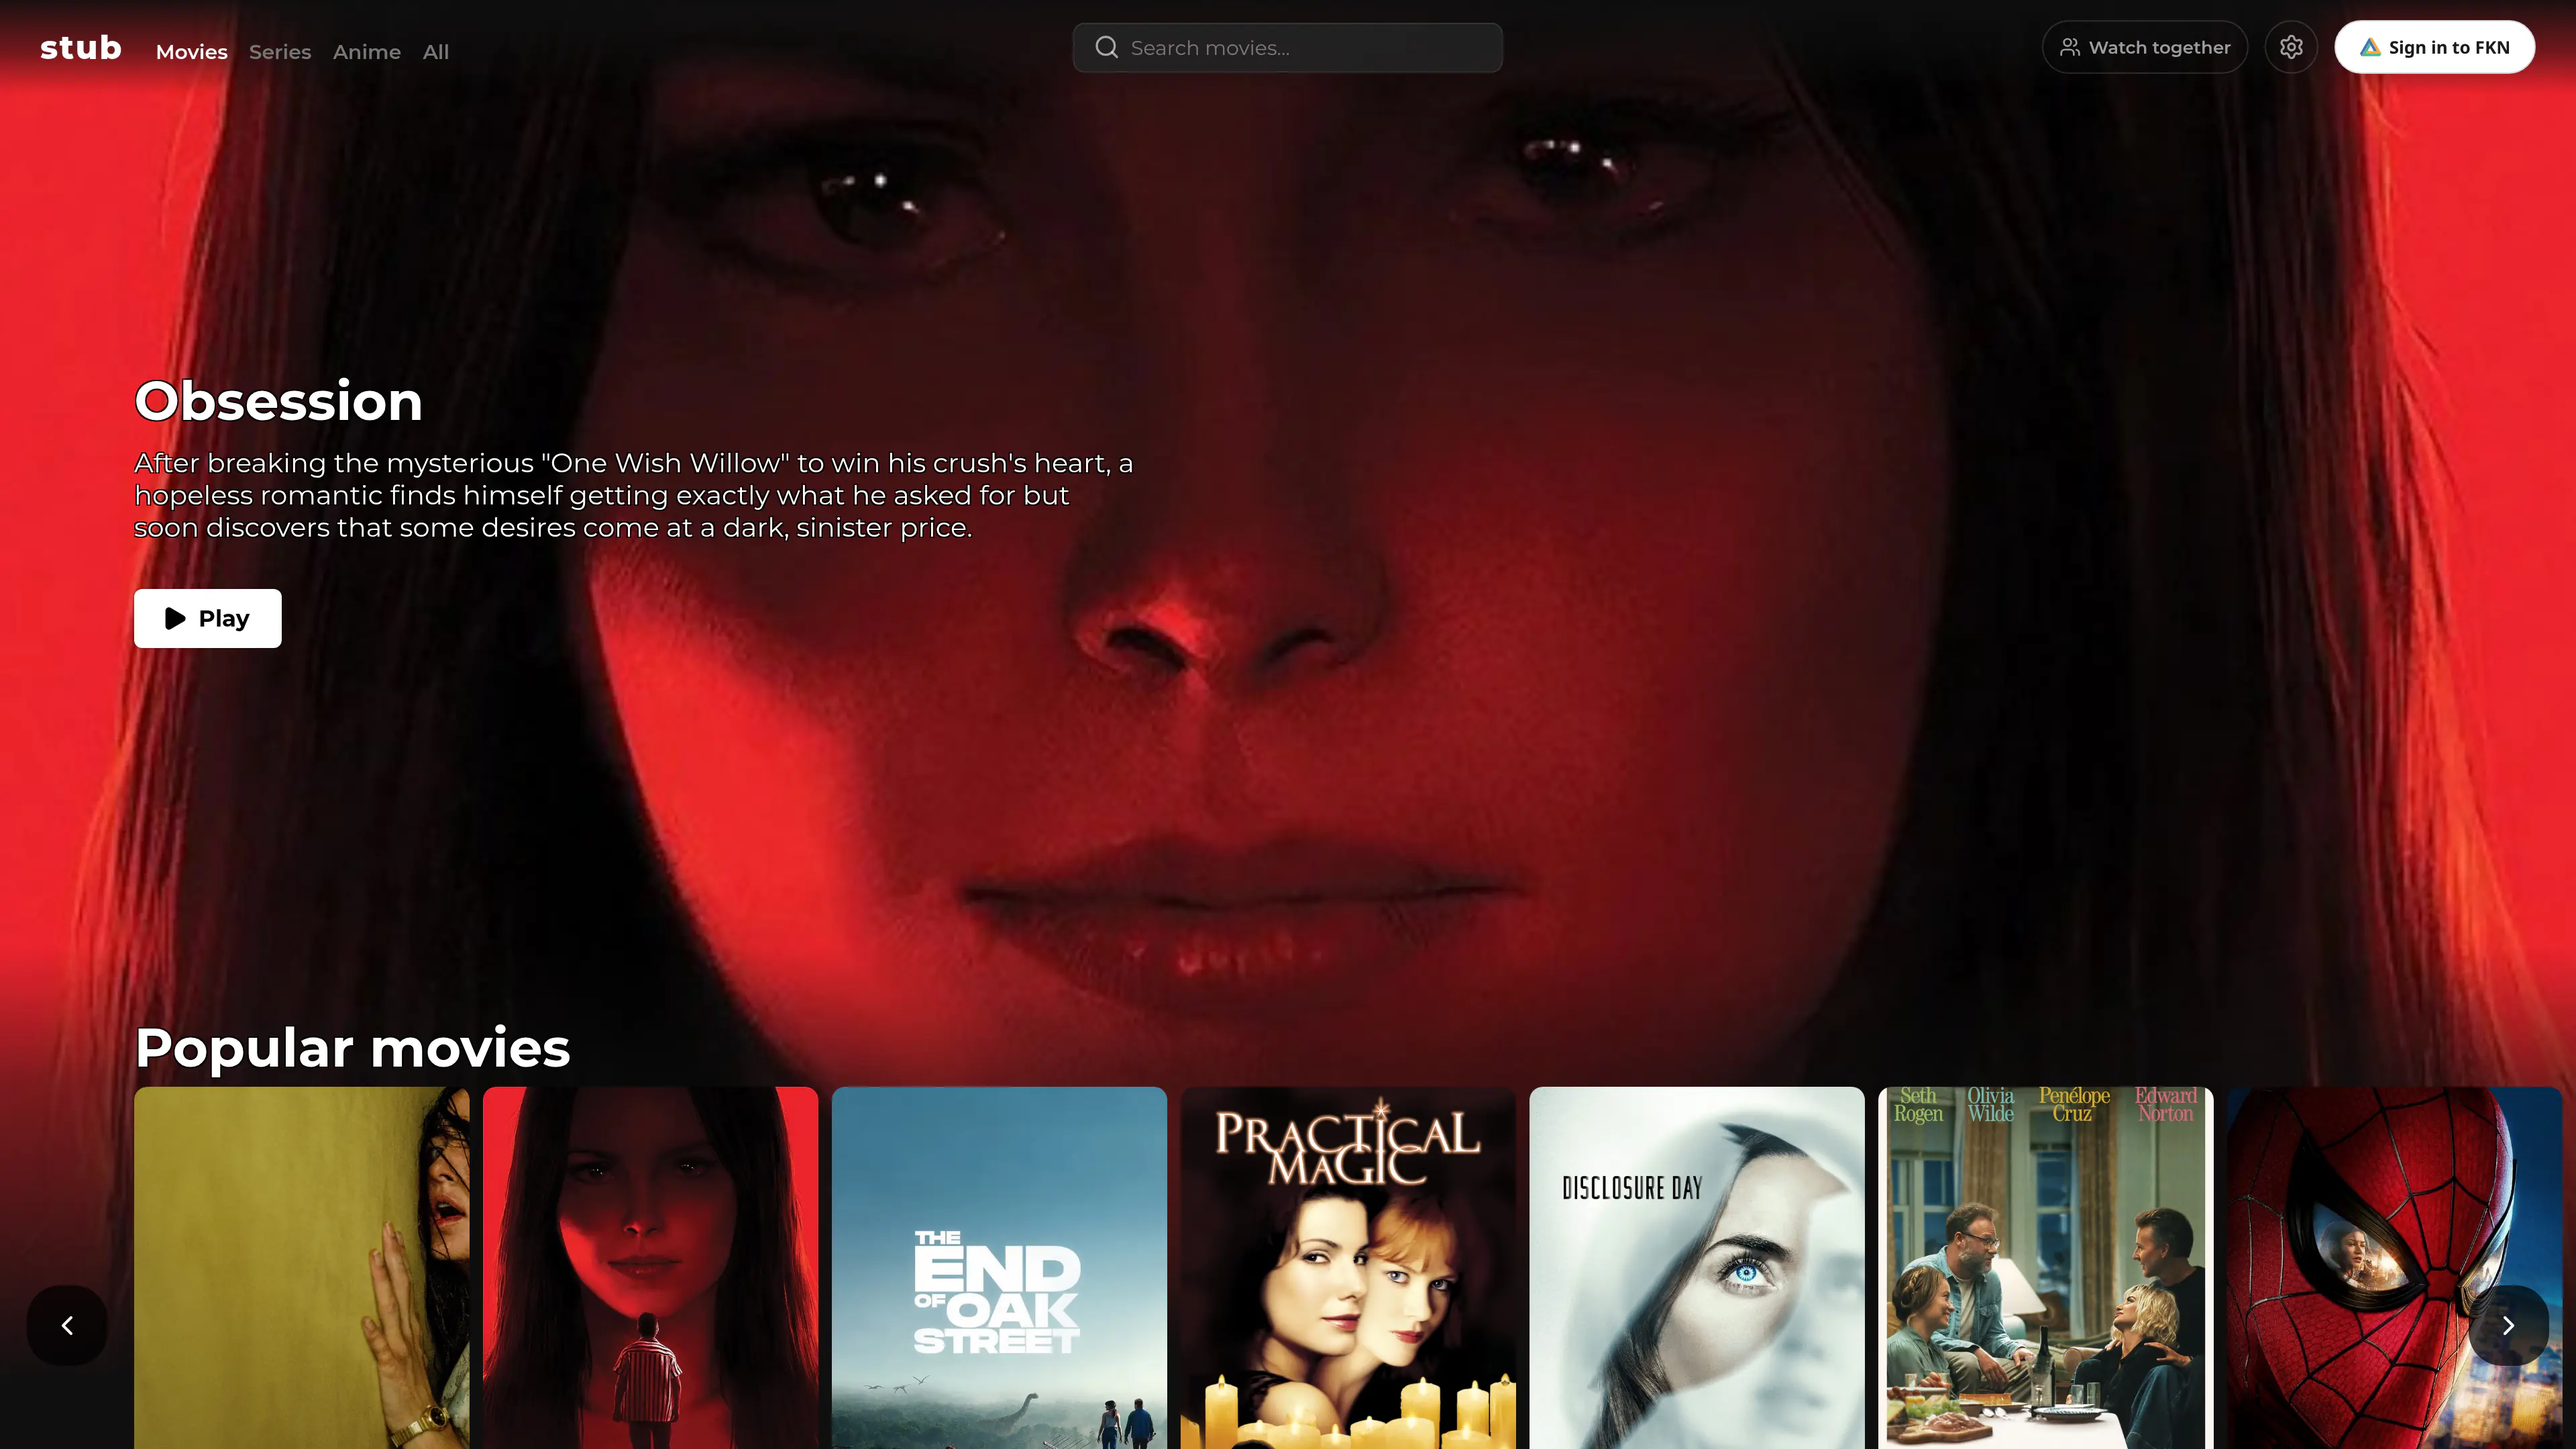
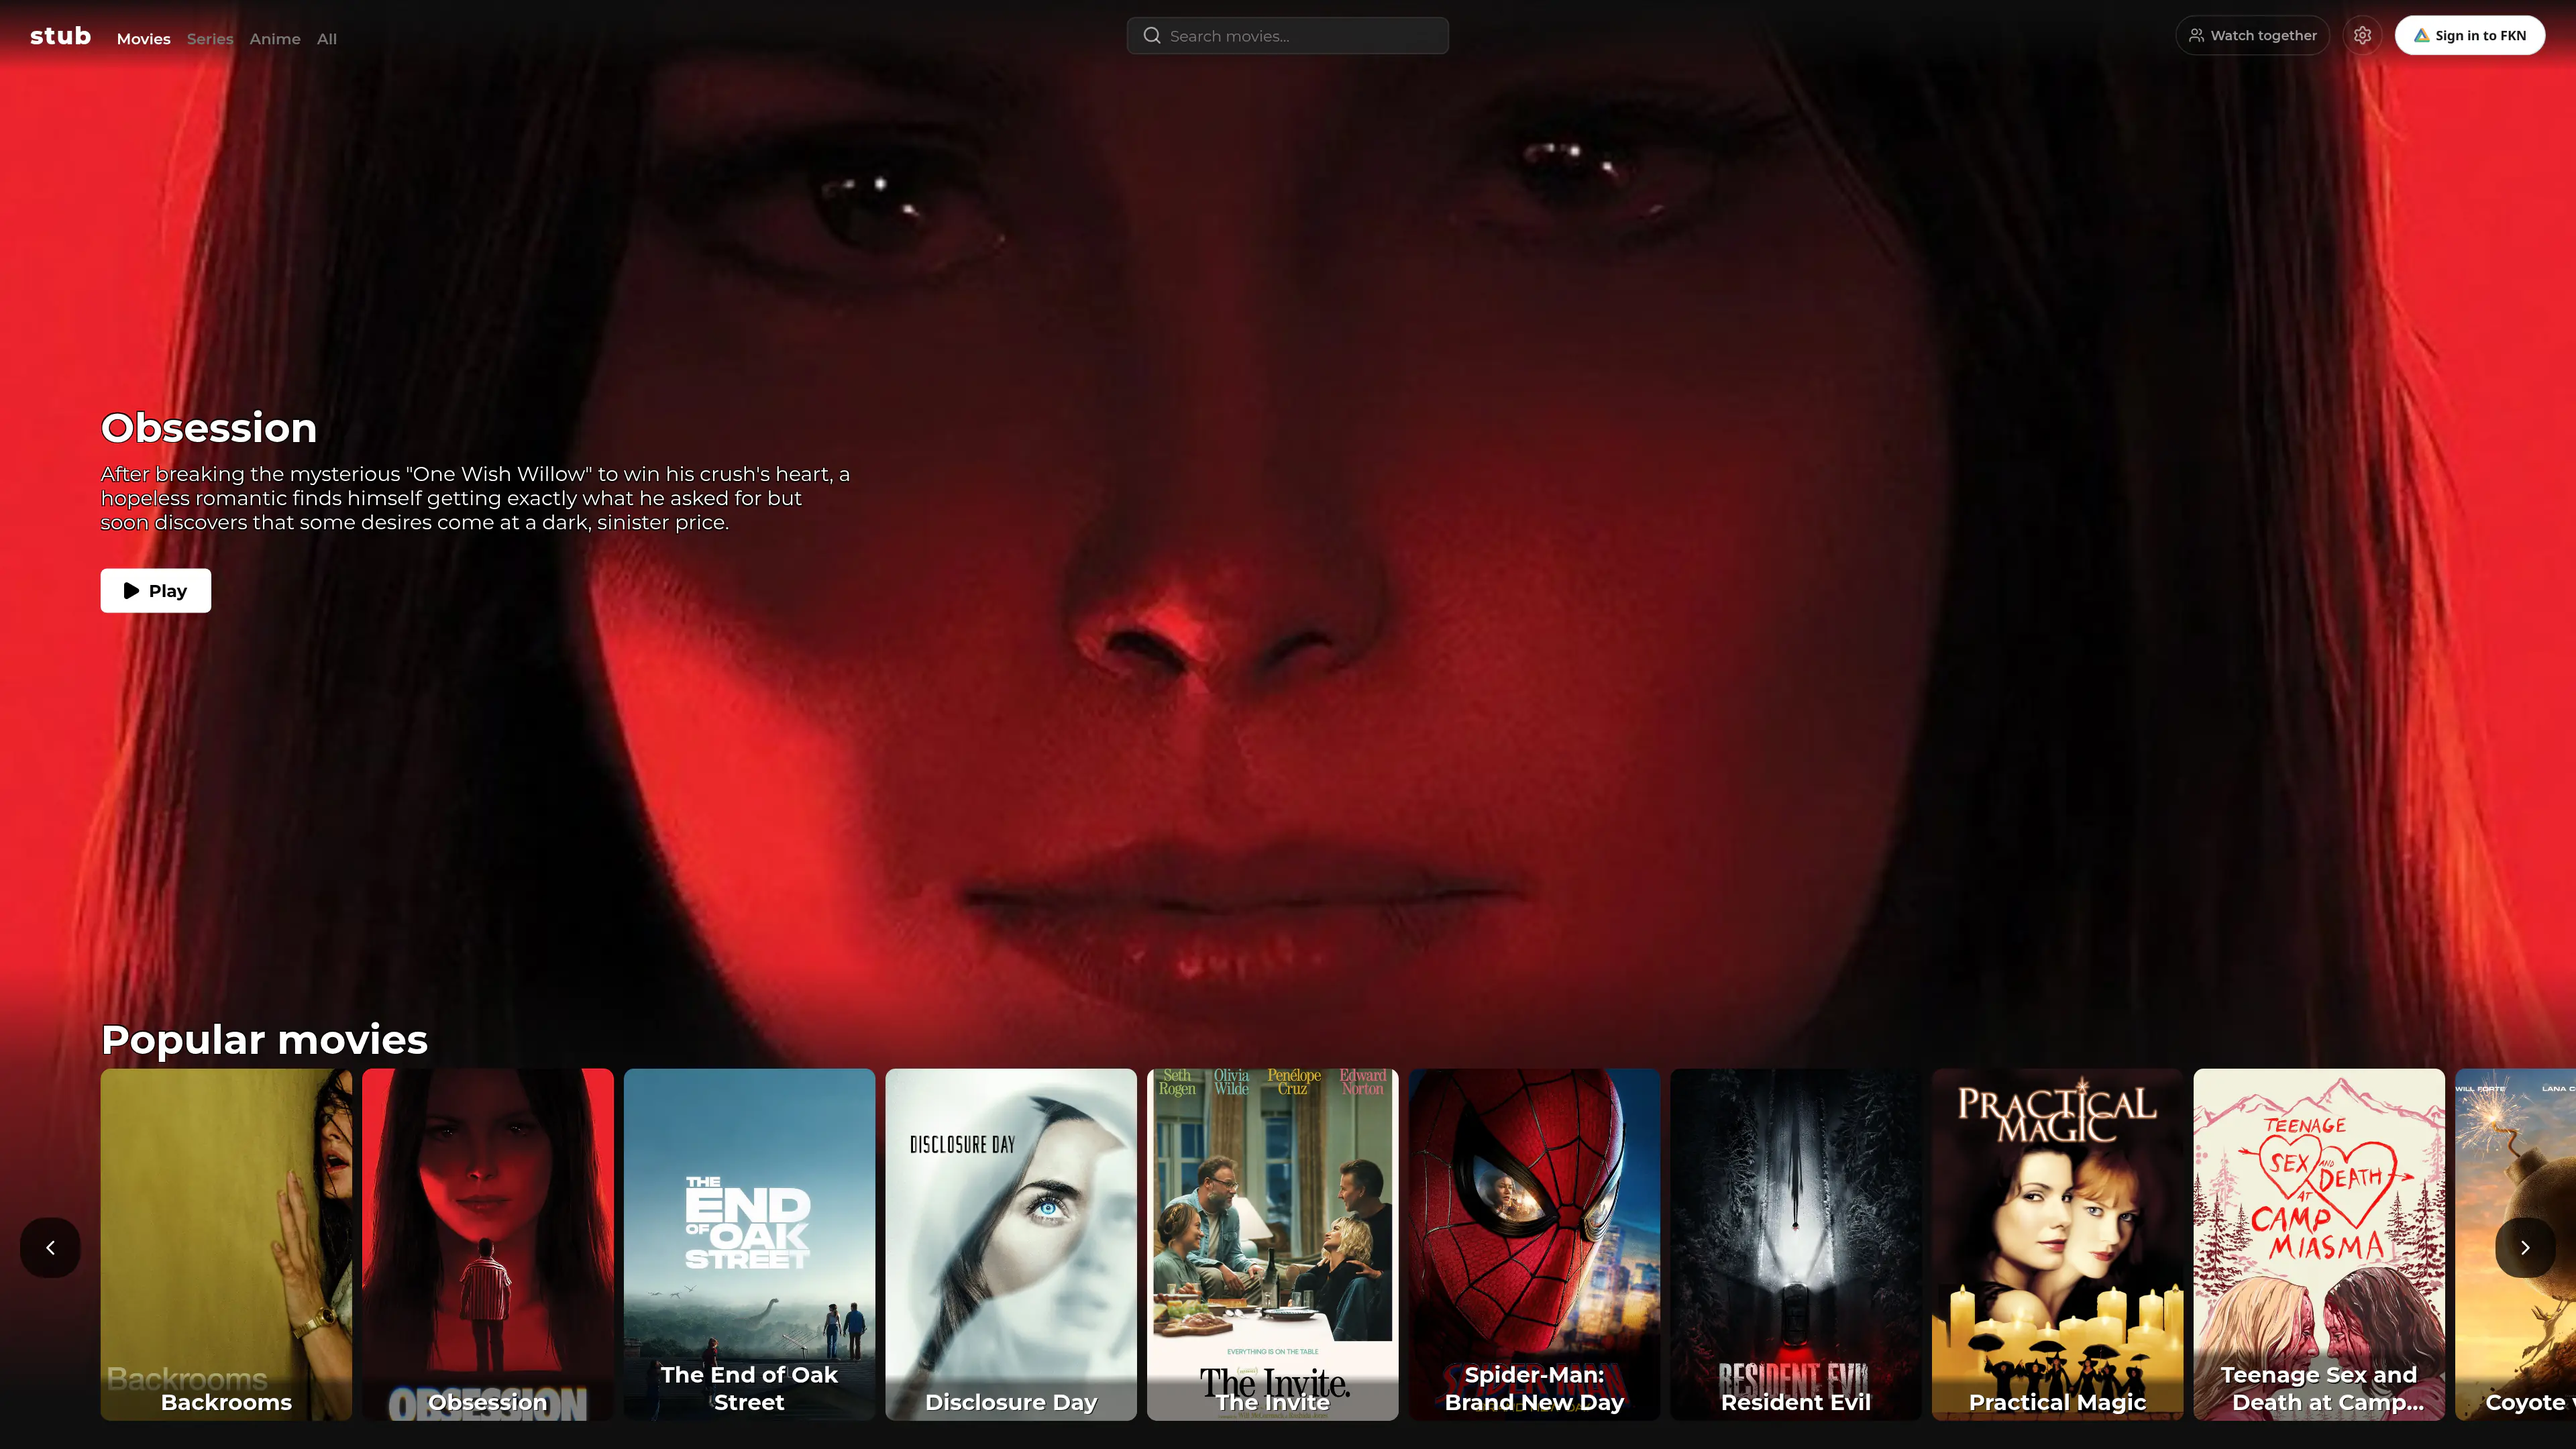
fix: 🐛store shots are taken at 2560x1440 at 1.5, so card titles show

diff --git a/scripts/capture-store.ts b/scripts/capture-store.ts
@@ -1,0 +1,110 @@
+/**
+ * Retakes the store screenshots package.json's `fkn.screenshots` names, from the live sites.
+ *
+ *   CHROME_PATH=$(which google-chrome-stable) node scripts/capture-store.ts <dir> [shot...]
+ *   cwebp -q 75 -m 6 -sharp_yuv -noalpha <dir>/<shot>-<frame>.png -o store/<shot>.webp
+ *
+ * Each shot opens a fresh signed-out context and waits until every picture on screen has decoded and
+ * the set has held for 5 s. A home's hero plays a trailer, so a home takes a burst to pick a frame
+ * from: one with no YouTube controls or text cards over the trailer and no letterbox bands.
+ */
+import type { BrowserContextOptions, Page } from 'playwright'
+
+import { mkdirSync } from 'node:fs'
+import { join } from 'node:path'
+import { chromium } from 'playwright'
+
+/** The owner's monitor: a 2560x1440 page at 1.5 (3840x2160 pixels), where the first row's card titles show. */
+export const DESKTOP = { viewport: { width: 2560, height: 1440 }, deviceScaleFactor: 1.5 }
+export const PHONE = { viewport: { width: 390, height: 844 }, deviceScaleFactor: 3, isMobile: true, hasTouch: true }
+
+const BURST = 8
+const JUJUTSU_KAISEN = 'https://anime.fkn.app/title/anilist:113415'
+const SHOTS: Record<string, { url: string, device: BrowserContextOptions, pictures: number, home?: true }> = {
+  home: { url: 'https://anime.fkn.app/', device: DESKTOP, pictures: 6, home: true },
+  title: { url: JUJUTSU_KAISEN, device: DESKTOP, pictures: 6 },
+  movie: { url: 'https://movies.fkn.app/', device: DESKTOP, pictures: 6, home: true },
+  series: { url: 'https://series.fkn.app/', device: DESKTOP, pictures: 6, home: true },
+  search: { url: 'https://anime.fkn.app/search?q=gundam', device: DESKTOP, pictures: 12 },
+  phone: { url: JUJUTSU_KAISEN, device: PHONE, pictures: 1 },
+}
+
+/** Runs in the page: the first card row's cards across the viewport, and how many of their titles lie wholly inside it. */
+export const firstRowTitles = () => {
+  const cards = [...document.querySelectorAll('.category-item')].map(card => ({
+    card: card.getBoundingClientRect(),
+    title: card.querySelector('.title-text')?.getBoundingClientRect(),
+  }))
+  const top = Math.min(...cards.map(({ card }) => card.top))
+  const row = cards.filter(({ card }) => Math.abs(card.top - top) < 1 && card.right > 0 && card.left < innerWidth)
+  return { across: row.length, inView: row.filter(({ title }) => title && title.top >= 0 && title.bottom <= innerHeight).length }
+}
+
+const picturesOnScreen = () => {
+  const urls = new Set<string>()
+  for (const element of document.querySelectorAll('*')) {
+    const { width, height, top, bottom, left, right } = element.getBoundingClientRect()
+    if (width < 8 || height < 8 || bottom <= 0 || top >= innerHeight || right <= 0 || left >= innerWidth) continue
+    if (element instanceof HTMLImageElement) {
+      if (element.currentSrc) urls.add(element.currentSrc)
+      continue
+    }
+    for (const [, url] of getComputedStyle(element).backgroundImage.matchAll(/url\("?([^")]+)"?\)/g)) {
+      if (url && !url.endsWith('/undefined')) urls.add(url)
+    }
+  }
+  return [...urls]
+}
+
+const decoded = (urls: string[]) => Promise.all(urls.map(url => {
+  const image = new Image()
+  image.src = url
+  return Promise.race([image.decode().then(() => true, () => false), new Promise<boolean>(resolve => setTimeout(resolve, 3_000, false))])
+}))
+
+const settle = async (page: Page, pictures: number) => {
+  let last = ''
+  let held = 0
+  for (let tick = 0; tick < 120; tick++) {
+    await page.waitForTimeout(1_000)
+    const urls = await page.evaluate(picturesOnScreen)
+    const ready = urls.length >= pictures
+      && (await page.evaluate(decoded, urls)).every(Boolean)
+      && await page.locator('[aria-busy="true"]').count() === 0
+    const key = urls.toSorted().join('|')
+    held = ready && key === last ? held + 1 : 0
+    if (held >= 5) return
+    last = key
+  }
+  throw new Error(`${page.url()} never settled`)
+}
+
+if (import.meta.main) {
+  const [dir, ...names] = process.argv.slice(2)
+  if (!dir) throw new Error('usage: node scripts/capture-store.ts <dir> [shot...]')
+  mkdirSync(dir, { recursive: true })
+  const browser = await chromium.launch({ executablePath: process.env.CHROME_PATH, args: ['--mute-audio', '--ozone-platform=headless'] })
+  for (const name of names.length ? names : Object.keys(SHOTS)) {
+    const shot = SHOTS[name]
+    if (!shot) throw new Error(`no shot named ${name}: ${Object.keys(SHOTS).join(', ')}`)
+    const context = await browser.newContext(shot.device)
+    const page = await context.newPage()
+    await page.goto(shot.url)
+    await settle(page, shot.pictures)
+    // the platform's notices, "Free quota used" among them, sit in fkn.app's frame over the page
+    for (const frame of page.frames().filter(frame => frame.parentFrame())) {
+      for (const dismiss of await frame.getByRole('button', { name: 'Dismiss' }).all()) await dismiss.click()
+    }
+    if (shot.home) {
+      const { across, inView } = await page.evaluate(firstRowTitles)
+      if (!across || inView < across) throw new Error(`${name}: ${inView} of the first row's ${across} card titles are on screen`)
+    }
+    for (let frame = 1; frame <= (shot.home ? BURST : 1); frame++) {
+      if (frame > 1) await page.waitForTimeout(2_500)
+      await page.screenshot({ path: join(dir, `${name}-${frame}.png`) })
+    }
+    console.log(name, page.url())
+    await context.close()
+  }
+  await browser.close()
+}

diff --git a/tests/sites.spec.ts b/tests/sites.spec.ts
@@ -9,6 +9,7 @@ import { dirname, extname, join, relative, resolve } from 'node:path'
 import { build } from 'vite-plus'
 
 import { builtInSources } from '../src/sources/built-in'
+import { DESKTOP, firstRowTitles } from '../scripts/capture-store'
 
 // One build served under four names, as Pages serves stub.fkn.app, anime.fkn.app, movies.fkn.app and
 // series.fkn.app: `*.localhost` stands in for fkn.app, and 127.0.0.1 is any other host, which shows
@@ -115,6 +116,19 @@ test('series.fkn.app lists JustWatch\'s popular shows, each a card of its own', 
   await expect(page.getByRole('link', { name: 'Ted Lasso' }).first()).toBeVisible({ timeout: 30_000 })
   await expect(row(page, 'Current season')).toHaveCount(0)
   await expect(row(page, 'Popular movies')).toHaveCount(0)
+})
+
+test.describe('on the store screenshots\' desktop page', () => {
+  test.use(DESKTOP)
+  for (const host of ['anime.localhost', 'movies.localhost', 'series.localhost']) {
+    test(`${host} shows the first row's card titles whole`, async ({ page }) => {
+      await page.goto(at(host))
+      await expect(page.locator('.category-item .title-text').first()).toBeVisible({ timeout: 30_000 })
+      const { across, inView } = await page.evaluate(firstRowTitles)
+      expect(across).toBeGreaterThan(0)
+      expect(inView).toBe(across)
+    })
+  }
 })
 
 test('any other host lists all three rows under the category tabs, and a tab keeps its own row', async ({ page }) => {

diff --git a/tests/unit/store-listing.test.ts b/tests/unit/store-listing.test.ts
@@ -52,8 +52,7 @@ describe("stub's store listing", () => {
   })
 
   // the background is Steam's library hero size and the cover its 2:3 capsule; the screenshots are
-  // the owner's 4K captures of the live sites, a 1920x1080 page at a device pixel ratio of 2, and a
-  // phone's at its 390x844 CSS size at 3
+  // 4K captures of the live sites (scripts/capture-store.ts), a phone's at its 390x844 CSS size at 3
   test('draws each image at the size it was made for', () => {
     expect(webpSizeOf(background).size).toBe('3840x1240')
     expect(webpSizeOf(cover).size).toBe('600x900')
